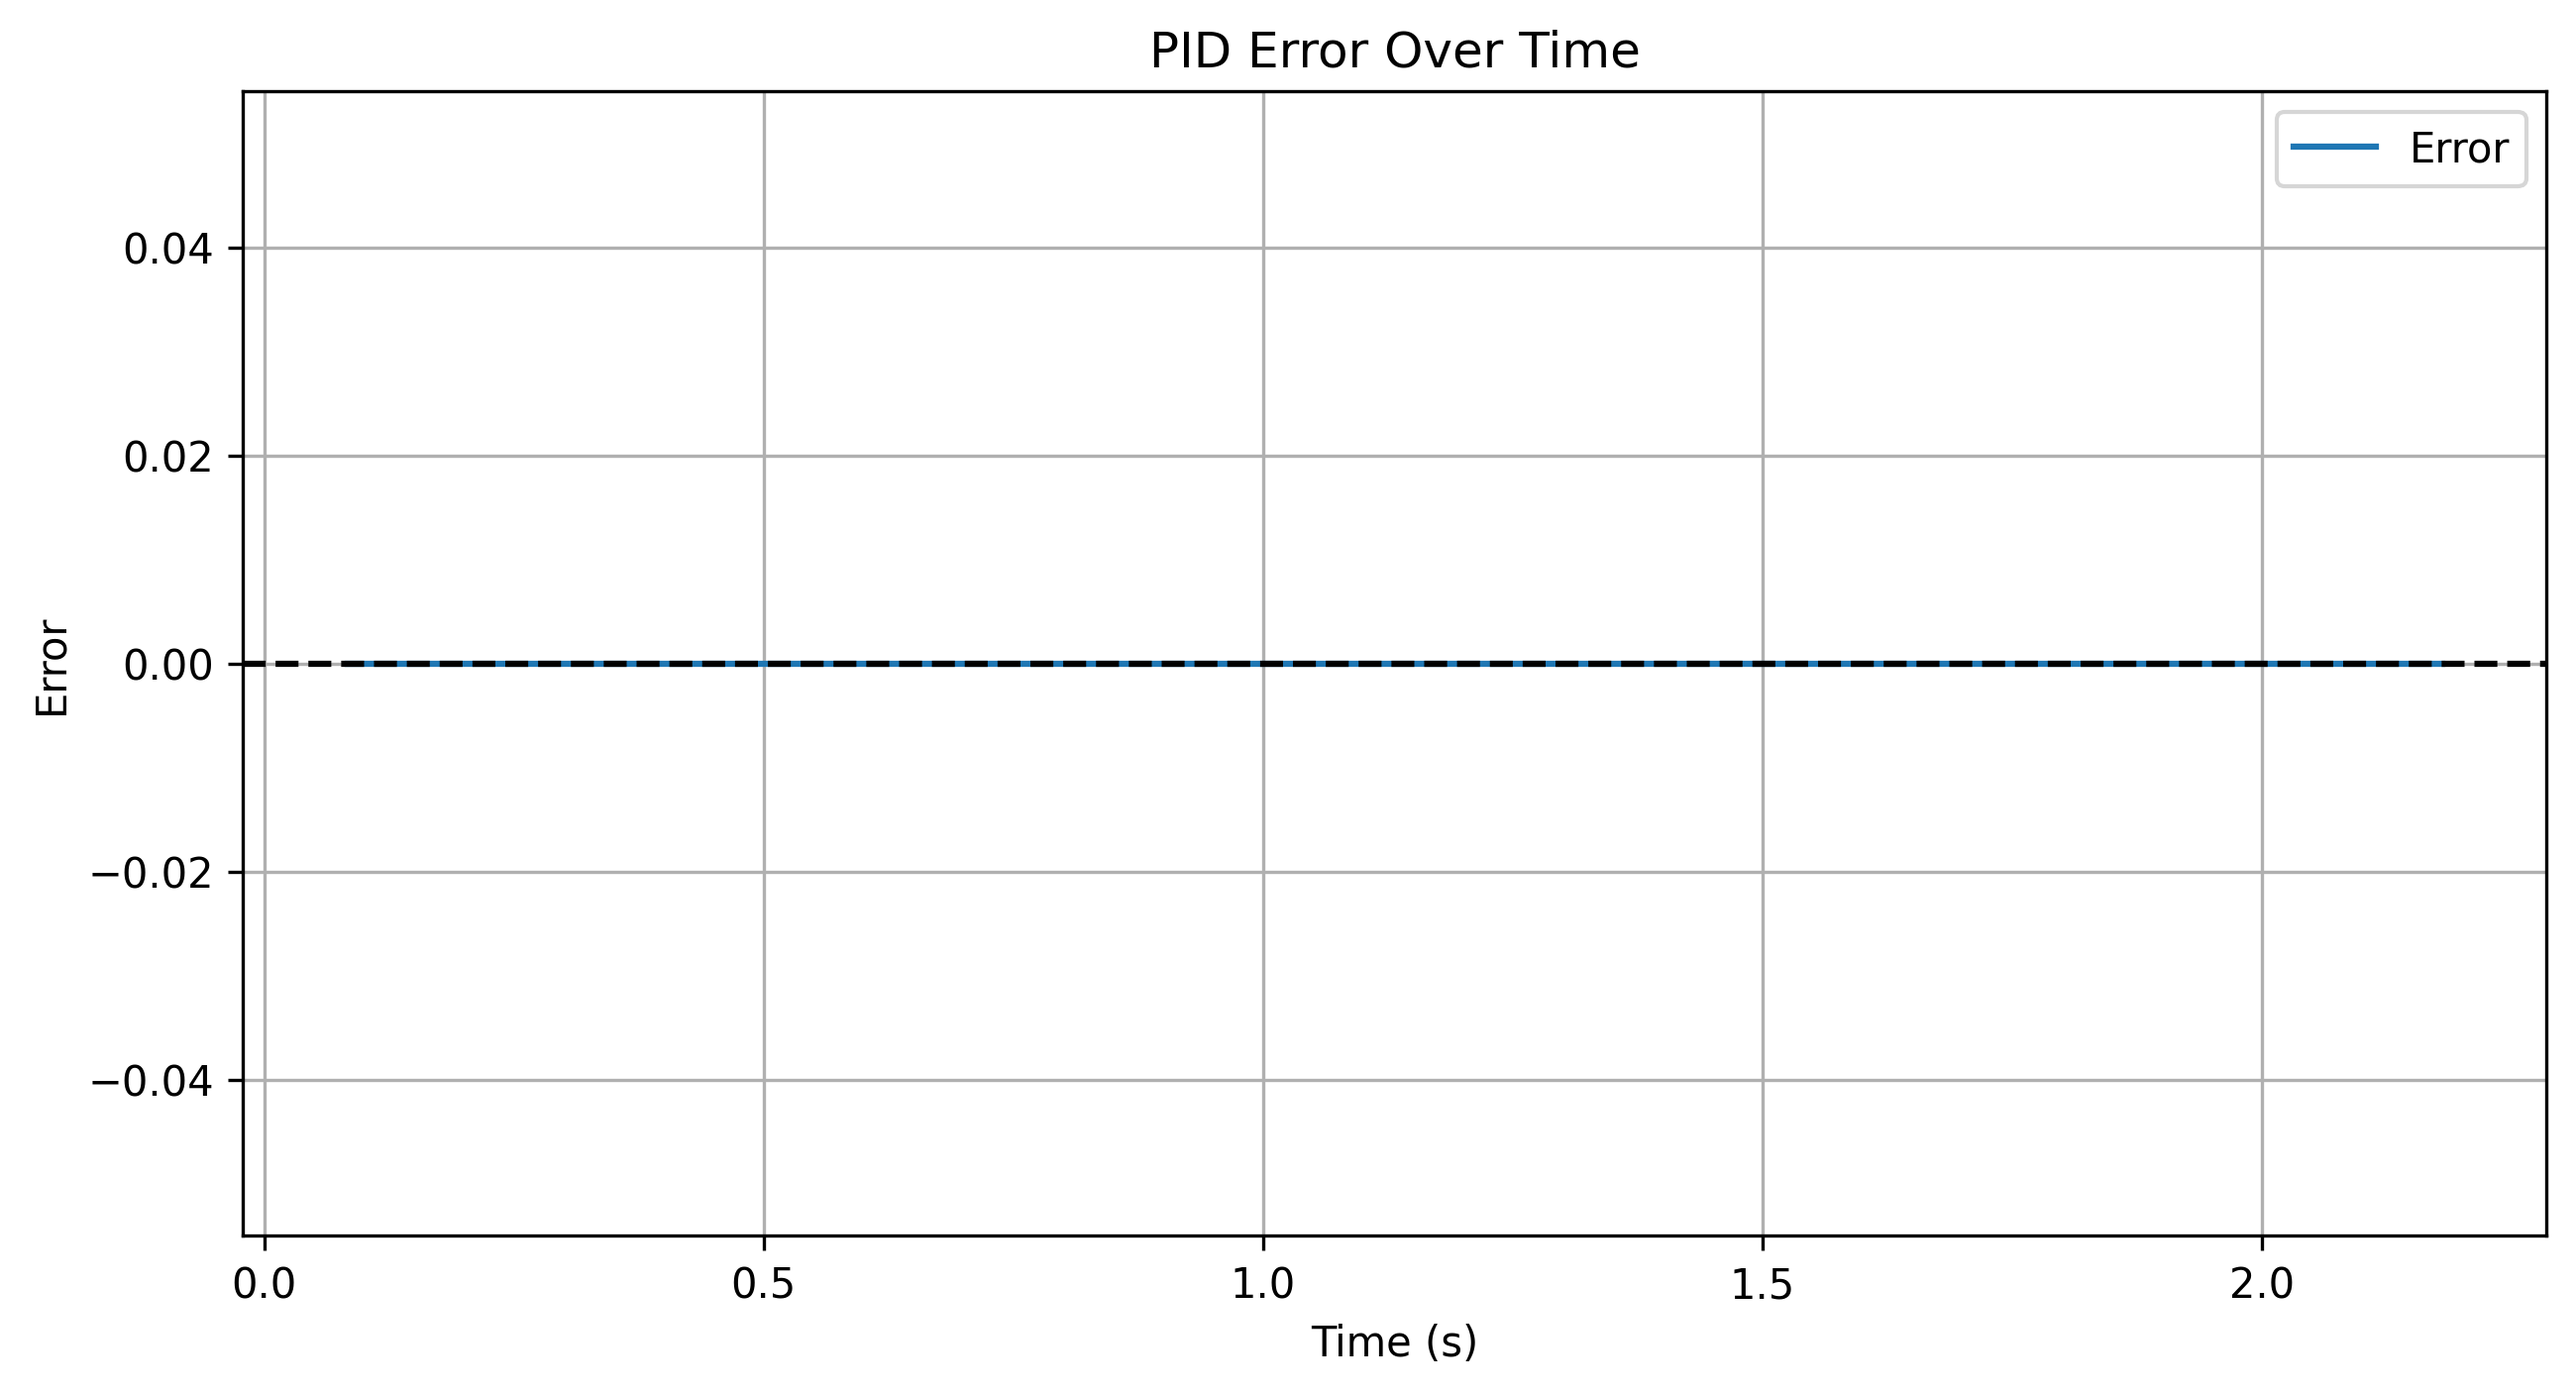
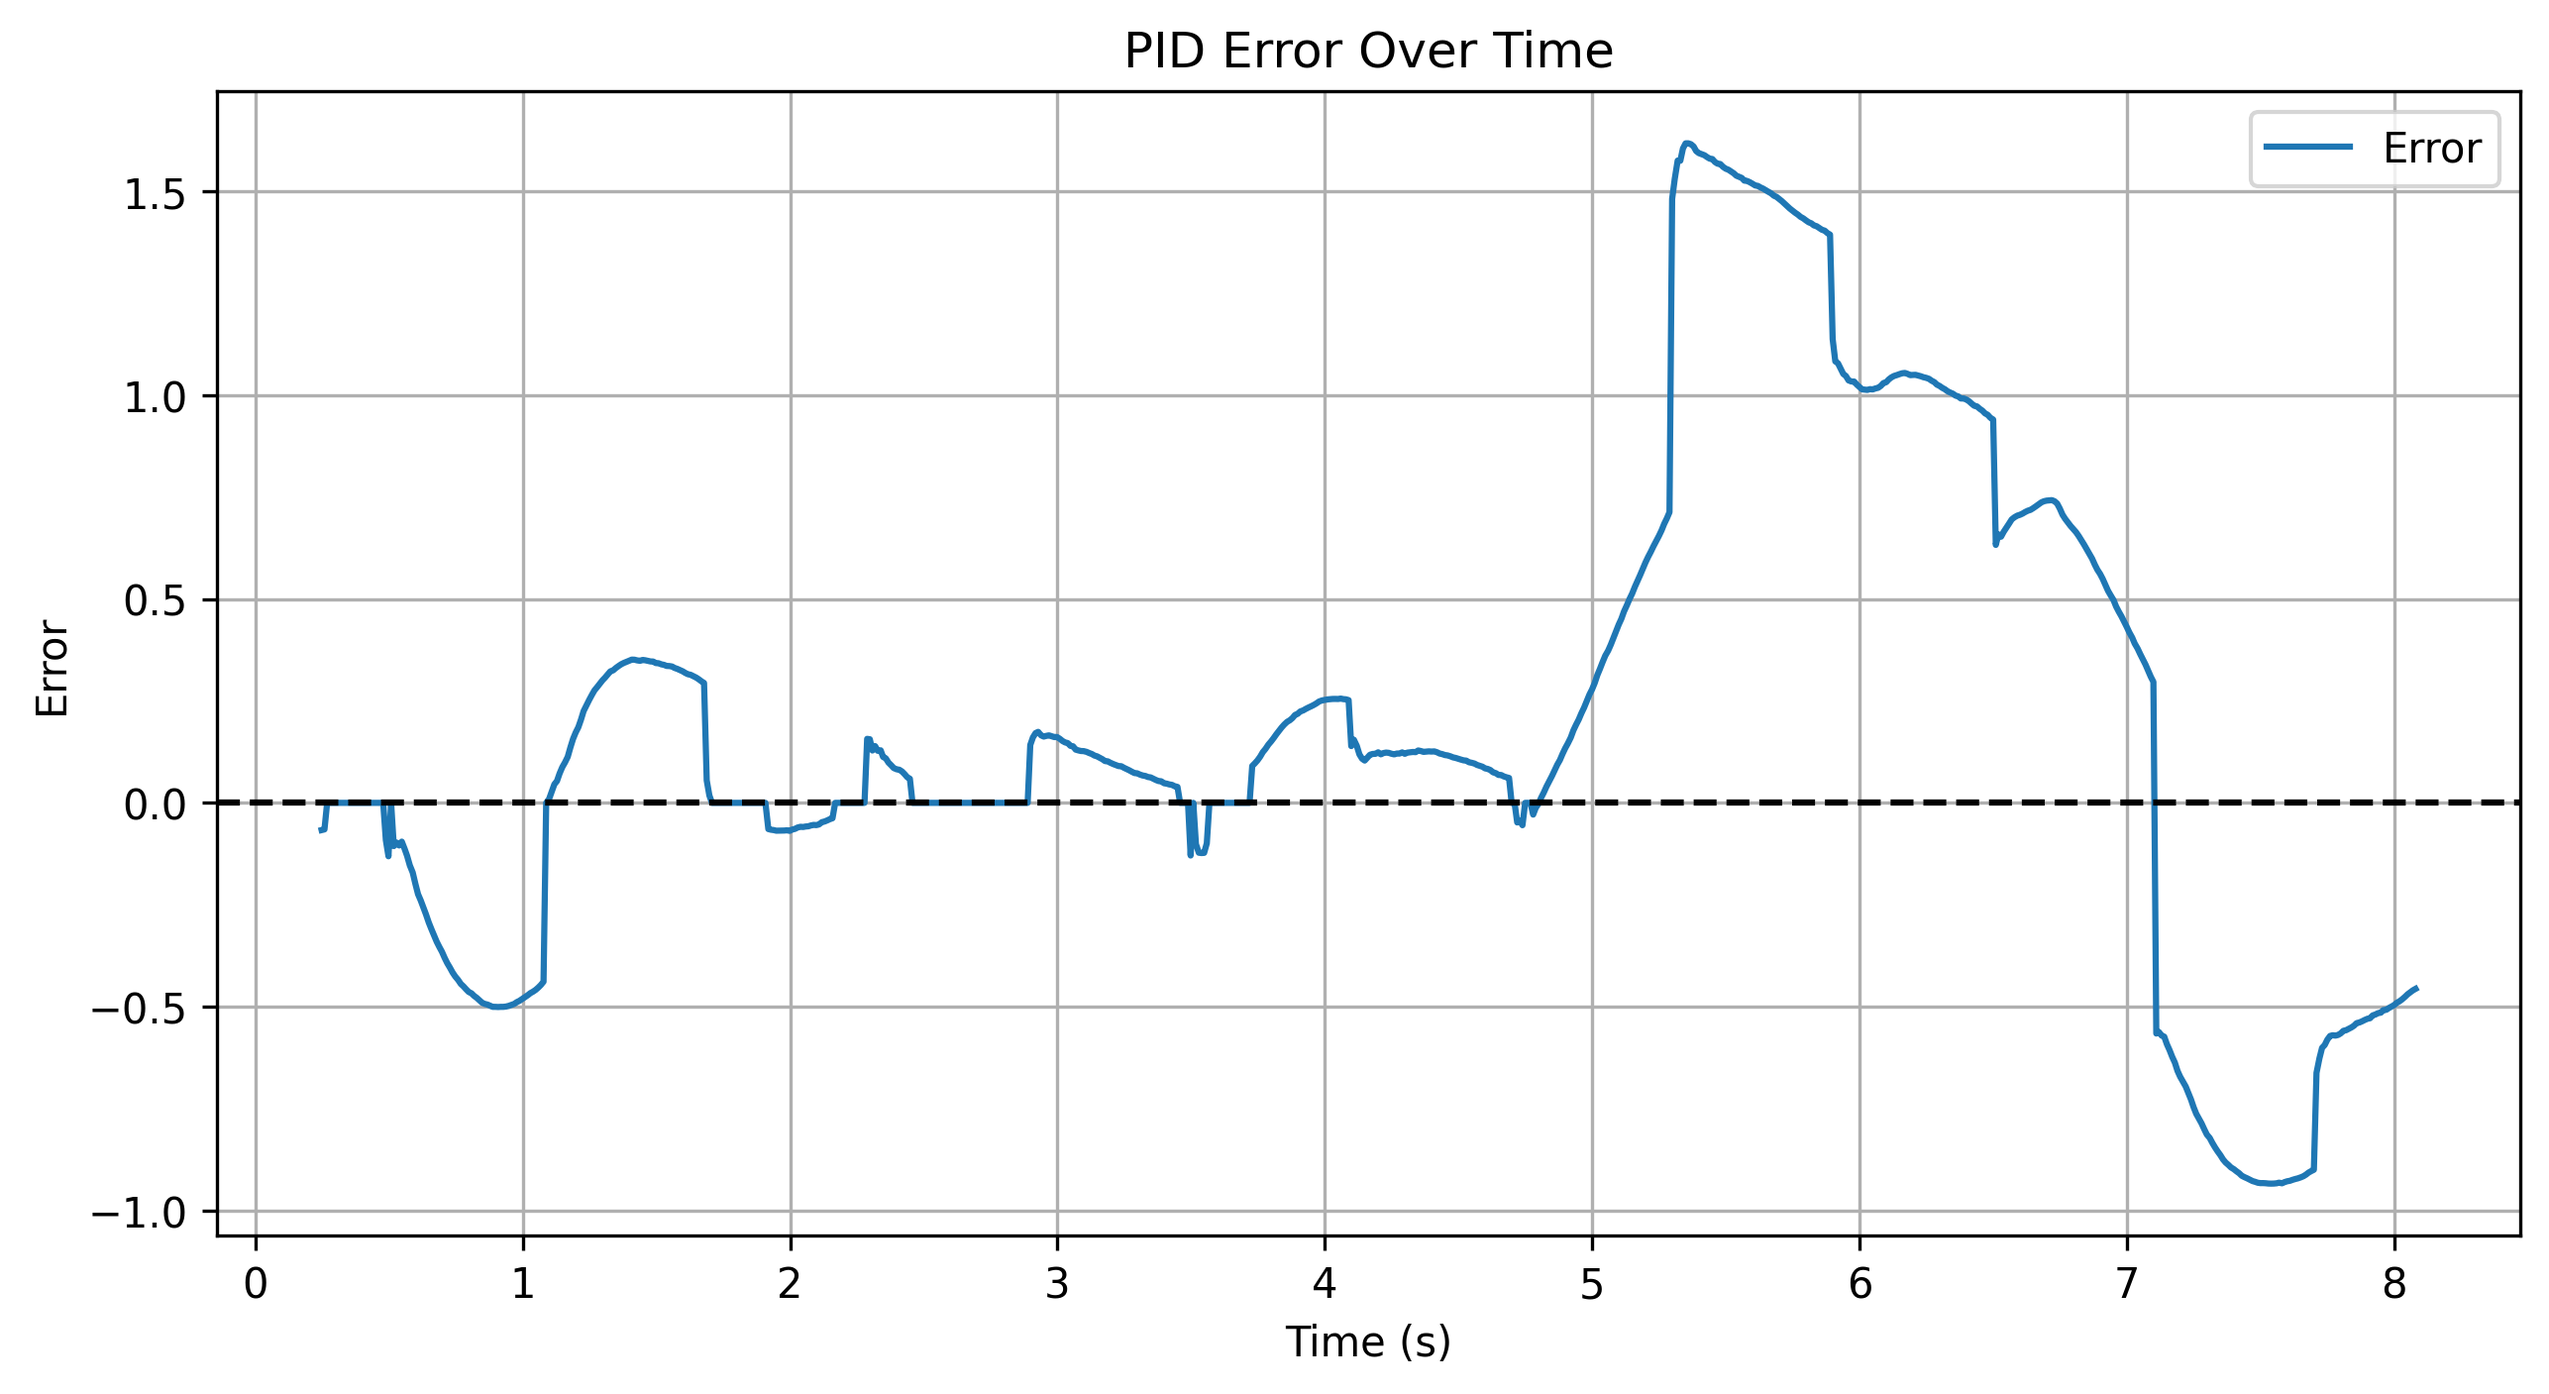
functioning PID

diff --git a/robobot/mqtt_python/sedge.py b/robobot/mqtt_python/sedge.py
@@ -96,13 +96,13 @@ class SEdge:
     lineCtrl = False # private
 
     # my PID values
-    Kp = 1.2  # Proportional constant
-    Ki = 1.2  # Integral constant
-    Kd = 0.8  # Derivative constant
+    Kp = 0.5  # Proportional constant
+    Ki = 0.1  # Integral constant
+    Kd = 0.3  # Derivative constant
     
     # lead compensator
-    lineTauZ = 1.5
-    lineTauP = 0.5
+    lineTauZ = 0.0
+    lineTauP = 0.0
 
     # Low-pass filter for derivative term
     alpha = 0.1  # Choose a suitable alpha value
@@ -496,8 +496,7 @@ class SEdge:
       # so sign is OK
       
       # Time difference for derivative and integral calculations
-      currentTime = t.time()
-      deltaTime = currentTime - self.lastTime
+      deltaTime = max(self.edge_nInterval / 1000, 0.001)  # in seconds
 
       # Calculate the error between the desired position and the current position
       e = self.refPosition - self.position
@@ -507,20 +506,17 @@ class SEdge:
       errorDiffFiltered = self.alpha * errorDiff + (1 - self.alpha) * self.lastErrorDiff
 
       # PID control output
-      self.u = self.Kp * e + self.Ki * self.errorSum + self.Kd * errorDiff
-
+      self.u = self.Kp * e + min(max(self.Ki * self.errorSum, -10), 10) + self.Kd * errorDiff
+      
       # Lead filter
-      # self.lineY = (self.u * self.tauZ2pT - self.lineE1 * self.tauZ2mT + self.lineY1 * self.tauP2mT)/self.tauP2pT;
+      #self.lineY = (self.u * self.tauZ2pT - self.lineE1 * self.tauZ2mT + self.lineY1 * self.tauP2mT)/self.tauP2pT
       self.lineY = self.u
-    
-      if self.lineY > 4:
-        self.lineY = 4
-      elif self.lineY < -4:
-        self.lineY = -4
+
+      self.lineY = max(min(self.lineY, 4), -4)  # Limit the control signal to [-4, 4] rad/s
 
       # Save data for graphing
       self.error_list.append(e)
-      self.time_list.append(currentTime - self.startingTime)
+      self.time_list.append(self.edge_nTime.timestamp() - self.startingTime)
 
       # save old values
       self.lineE1 = self.u
@@ -529,7 +525,6 @@ class SEdge:
       # Save last values
       self.lastError = e
       self.lastErrorDiff = errorDiffFiltered
-      self.lastTime = currentTime
 
       # make response
       #print("velocity edge: ", self.velocity)

diff --git a/robobot/mqtt_python/mqtt-client.py b/robobot/mqtt_python/mqtt-client.py
@@ -215,7 +215,7 @@ def loop():
         service.send(service.topicCmd + "T0/leds","16 0 0 30") # blue: running
         service.send(service.topicCmd + "ti/rc","0.0 0.0") # (forward m/s, turn-rate rad/sec)
         # follow line (at 0.25cm/s)
-        edge.lineControl(0.25, 0.0) # m/s and position on line
+        edge.lineControl(0.35, 0.0) # m/s and position on line
         state = 110
         pose.tripBreset()
 
@@ -342,7 +342,7 @@ if __name__ == "__main__":
       print("% Starting")
       # where is the MQTT data server:
       # service.setup('localhost') # localhost
-      service.setup('10.197.218.24')
+      service.setup('10.197.218.235')
       if service.connected:
         loop()
       service.terminate()
